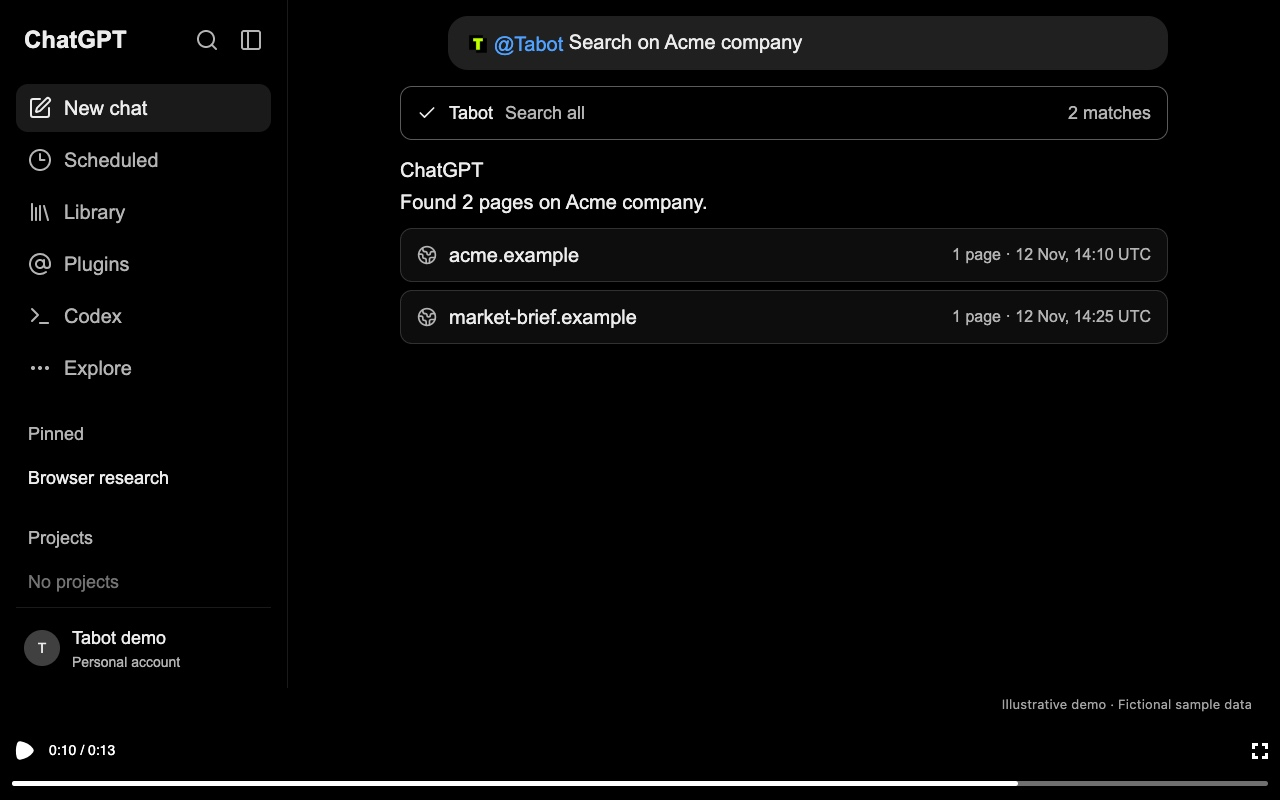
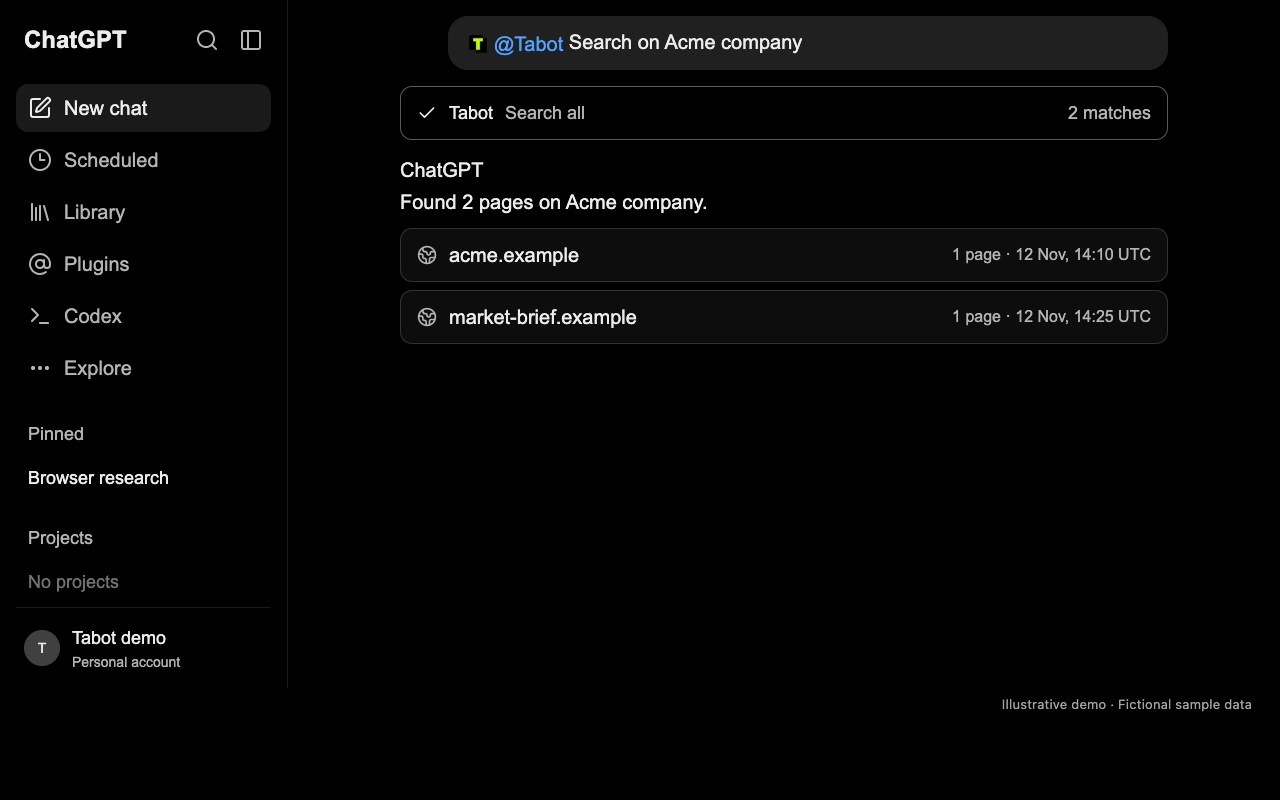
Polish extension popup and prepare 0.2.6 release

Changed region(s): [[0.0, 0.9062, 1.0, 1.0]]

diff --git a/apps/web/src/routes/mobile.tsx b/apps/web/src/routes/mobile.tsx
@@ -1,24 +1,13 @@
 import { createFileRoute } from "@tanstack/react-router";
-import { Copy } from "lucide-react";
-import { DingToaster, toast } from "~/components/alerts/ding-toaster";
 import { MobileGateFigure } from "~/components/features/mobile/mobile-gate-figure";
 import { Button } from "~/components/ui/button";
-import { LOGO_URL } from "~/lib/constants";
+import {
+	CHROME_LOGO_URL,
+	CHROME_WEB_STORE_URL,
+	LOGO_URL,
+} from "~/lib/constants";
 
 const MobilePage = () => {
-	const copyPageLink = async () => {
-		try {
-			await navigator.clipboard.writeText(window.location.href);
-			toast.success("Link copied", {
-				description: "Open this page in Chrome on your computer.",
-			});
-		} catch {
-			toast.error("Couldn’t copy link", {
-				description: "Copy the page URL from your browser’s address bar.",
-			});
-		}
-	};
-
 	return (
 		<main className="min-h-svh bg-work-canvas px-5 text-work-ink sm:px-8">
 			<header className="mx-auto flex w-full max-w-5xl items-center gap-2 py-5 sm:py-6">
@@ -47,20 +36,28 @@ const MobilePage = () => {
 					<div className="mt-6 rounded-xl border border-work-line bg-work-surface p-4 sm:p-5">
 						<p className="text-sm font-semibold">Continue on your computer</p>
 						<p className="mt-1 text-sm leading-6 text-work-muted">
-							Copy this page’s link, then open it in Chrome on your laptop or
-							desktop.
+							Open the Chrome Web Store to add Tabot to Chrome on your computer.
 						</p>
 						<Button
 							className="mt-4 w-full sm:w-fit"
-							onClick={() => void copyPageLink()}
+							disabled={!CHROME_WEB_STORE_URL}
+							onClick={() =>
+								CHROME_WEB_STORE_URL &&
+								window.open(
+									CHROME_WEB_STORE_URL,
+									"_blank",
+									"noopener,noreferrer",
+								)
+							}
 						>
-							<Copy aria-hidden="true" className="size-4" />
-							Copy page link
+							<img src={CHROME_LOGO_URL} width="22" height="22" alt="" />
+							{CHROME_WEB_STORE_URL
+								? "Add to Chrome"
+								: "Chrome Store link unavailable"}
 						</Button>
 					</div>
 				</div>
 			</section>
-			<DingToaster position="top-center" theme="light" />
 		</main>
 	);
 };

diff --git a/apps/web/src/components/features/landing/install/install-link.tsx b/apps/web/src/components/features/landing/install/install-link.tsx
@@ -1,5 +1,4 @@
 import { useNavigate } from "@tanstack/react-router";
-import { Copy } from "lucide-react";
 import {
 	AnimatePresence,
 	domAnimation,
@@ -7,7 +6,6 @@ import {
 	m,
 	useReducedMotion,
 } from "motion/react";
-import { toast } from "~/components/alerts/ding-toaster";
 import {
 	CHROME_LOGO_URL,
 	CHROME_WEB_STORE_URL,
@@ -22,20 +20,6 @@ const installClass =
 const handleAddToChromeClick = () =>
 	trackLandingAction({ name: "landing_add_to_chrome_clicked" });
 
-const handleCopyStoreLink = async () => {
-	if (!storeUrl) return;
-	try {
-		await navigator.clipboard.writeText(storeUrl);
-		toast.success("Chrome Web Store link copied", {
-			description: "Send it to your computer, then open it in Chrome.",
-		});
-	} catch {
-		toast.error("Couldn’t copy link", {
-			description: "Open this page on your computer and use Add to Chrome.",
-		});
-	}
-};
-
 type InstallLinkProps = { connected: boolean; mobile: boolean };
 
 export const InstallLink = ({ connected, mobile }: InstallLinkProps) => {
@@ -47,10 +31,6 @@ export const InstallLink = ({ connected, mobile }: InstallLinkProps) => {
 			return;
 		}
 		handleAddToChromeClick();
-		if (mobile) {
-			void handleCopyStoreLink();
-			return;
-		}
 		if (storeUrl) window.open(storeUrl, "_blank", "noopener,noreferrer");
 	};
 
@@ -66,7 +46,7 @@ export const InstallLink = ({ connected, mobile }: InstallLinkProps) => {
 			type="button"
 			aria-label={
 				mobile
-					? "Copy store link"
+					? "Add to Chrome"
 					: connected
 						? "Continue in Tabot"
 						: "Add to Chrome"
@@ -89,8 +69,8 @@ export const InstallLink = ({ connected, mobile }: InstallLinkProps) => {
 					>
 						{mobile ? (
 							<>
-								<Copy aria-hidden="true" className="size-4" />
-								<span>Copy store link</span>
+								<img src={CHROME_LOGO_URL} width="22" height="22" alt="" />
+								<span>Add to Chrome</span>
 							</>
 						) : connected ? (
 							<>

diff --git a/packages/shared/src/checks/telemetry.check.ts b/packages/shared/src/checks/telemetry.check.ts
@@ -119,6 +119,55 @@ assert.doesNotMatch(
 	JSON.stringify(actionPayload),
 	/private\.example|secret|account-reset|Alice|user@example\.com/,
 );
+const errorWithoutStack = new TypeError("sensitive-error-message");
+errorWithoutStack.stack = "";
+telemetry.captureError(errorWithoutStack, "window_error", false, {
+	filename: "https://private.example/assets/chunk.js?token=secret",
+	lineno: 12,
+	colno: 8,
+});
+const fallbackEvent = events.at(-1);
+assert.equal(fallbackEvent?.type, "exception");
+if (fallbackEvent?.type !== "exception")
+	throw new Error("window error fallback trace missing");
+assert.deepEqual(fallbackEvent.exception.frames, [
+	{ filename: "chunk.js", lineno: 12, colno: 8, platform: "web:javascript" },
+]);
+assert.doesNotMatch(
+	JSON.stringify(fallbackEvent),
+	/private\.example|secret|sensitive-error-message/,
+);
+let fallbackPayload: Record<string, unknown> | undefined;
+globalThis.fetch = async (_input, init) => {
+	fallbackPayload = JSON.parse(String(init?.body)) as Record<string, unknown>;
+	return new Response(null, { status: 200 });
+};
+try {
+	await createPostHogTransport({
+		projectKey: "test-key",
+		distinctId: "tabot_web",
+	}).capture(fallbackEvent);
+} finally {
+	globalThis.fetch = originalFetch;
+}
+const fallbackProperties = fallbackPayload?.properties as Record<
+	string,
+	unknown
+>;
+const exceptionList = fallbackProperties?.$exception_list as Array<{
+	stacktrace?: { frames?: Array<Record<string, unknown>> };
+}>;
+assert.deepEqual(exceptionList[0]?.stacktrace?.frames?.[0], {
+	filename: "chunk.js",
+	lineno: 12,
+	colno: 8,
+	platform: "web:javascript",
+	function: "<redacted>",
+});
+assert.doesNotMatch(
+	JSON.stringify(fallbackPayload),
+	/private\.example|secret|sensitive-error-message/,
+);
 console.log(
 	"telemetry: provider-neutral API, bounded routes, and sanitized PostHog exception payload passed",
 );

diff --git a/packages/shared/src/telemetry.ts b/packages/shared/src/telemetry.ts
@@ -125,7 +125,10 @@ const SAFE_FAILURE_CODES: ReadonlySet<string> = new Set([
 	"embedding-busy",
 ]);
 
-const safeException = (value: unknown) => {
+const safeException = (
+	value: unknown,
+	fallbackFrame?: Pick<SafeExceptionFrame, "filename" | "lineno" | "colno">,
+) => {
 	let name = "Error";
 	let stack: string | undefined;
 	try {
@@ -136,7 +139,15 @@ const safeException = (value: unknown) => {
 	} catch {
 		// Malformed thrown values are reduced to generic diagnostics.
 	}
-	return { name, message: "redacted", frames: safeFrames(stack) };
+	const frames = safeFrames(stack);
+	if (!frames.length && fallbackFrame) {
+		frames.push(
+			...safeFrames(
+				`Error\n    at ${fallbackFrame.filename}:${fallbackFrame.lineno}:${fallbackFrame.colno}`,
+			),
+		);
+	}
+	return { name, message: "redacted", frames };
 };
 
 export const createTelemetry = (
@@ -174,6 +185,7 @@ export const createTelemetry = (
 			value: unknown,
 			source: TelemetryErrorSource,
 			handled = false,
+			fallbackFrame?: Pick<SafeExceptionFrame, "filename" | "lineno" | "colno">,
 		) => {
 			const failureCode = safeFailureCode(value);
 			send({
@@ -181,7 +193,7 @@ export const createTelemetry = (
 				source: SAFE_SOURCES.has(source) ? source : "unknown",
 				handled,
 				...(failureCode ? { failureCode } : {}),
-				exception: safeException(value),
+				exception: safeException(value, fallbackFrame),
 				context,
 			});
 		},

diff --git a/apps/extension/popup.tsx b/apps/extension/popup.tsx
@@ -286,7 +286,16 @@ export default function Popup() {
 						className="mt-0.5 size-6.5 shrink-0 object-contain"
 					/>
 					<div className="min-w-0">
-						<p className="text-sm font-semibold leading-5">Tabot</p>
+						<a
+							href="https://shanvit7.github.io/tabot/home"
+							target="_blank"
+							rel="noreferrer"
+							aria-label="Open Tabot dashboard (new tab)"
+							title="Open Tabot dashboard"
+							className="-mx-1 -my-0.5 inline-flex min-h-6 items-center rounded-sm px-1 text-sm font-semibold leading-5 underline decoration-transparent underline-offset-4 hover:decoration-muted focus-visible:decoration-muted"
+						>
+							Tabot
+						</a>
 						<div className="mt-0.5 flex items-center gap-1.5 text-xs text-muted">
 							<span
 								role="status"

diff --git a/apps/web/src/components/features/landing/sections/faq-section.tsx b/apps/web/src/components/features/landing/sections/faq-section.tsx
@@ -35,6 +35,10 @@ const faqs = [
 		"No—we don’t train AI on your browsing data. Tabot is free and open source, so you can use it without paying for another AI service or handing your browsing history to a cloud platform. We’d rather keep the core experience free and let the community shape where it goes next.",
 	],
 	[
+		"Does my computer need to be on to use Tabot with ChatGPT?",
+		"Yes. Keep your computer on, Chrome open, and the Tabot extension connected while ChatGPT accesses your browsing data. If your computer is off or the extension is disconnected, ChatGPT can't access it through Tabot.",
+	],
+	[
 		"Can Tabot take actions for me?",
 		<>
 			Not yet. We’re working toward automations you can create locally and

diff --git a/apps/web/src/routes/__root.tsx b/apps/web/src/routes/__root.tsx
@@ -40,7 +40,11 @@ const RootLayout = () => {
 	}, [isLoading, isMobile, navigate, pathname]);
 	useEffect(() => {
 		const onError = (event: ErrorEvent) =>
-			trackDashboardError(event.error, "window_error");
+			trackDashboardError(event.error, "window_error", false, {
+				filename: event.filename,
+				lineno: event.lineno,
+				colno: event.colno,
+			});
 		const onUnhandledRejection = (event: PromiseRejectionEvent) =>
 			trackDashboardError(event.reason, "unhandled_rejection");
 		window.addEventListener("error", onError);

diff --git a/apps/web/src/components/ui/motion/text/text-animator-runtime.ts b/apps/web/src/components/ui/motion/text/text-animator-runtime.ts
@@ -259,7 +259,10 @@ export function cleanupLoop(c: LoopController) {
 
 function registerAnimation(c: LoopController, a: Animation): Animation {
 	c.animations.add(a);
-	void a.finished.finally(() => c.animations.delete(a));
+	void a.finished.then(
+		() => c.animations.delete(a),
+		() => c.animations.delete(a),
+	);
 	return a;
 }
 

diff --git a/apps/web/src/lib/telemetry.ts b/apps/web/src/lib/telemetry.ts
@@ -44,4 +44,5 @@ export const trackDashboardError = (
 	value: unknown,
 	source: TelemetryErrorSource,
 	handled = false,
-) => telemetry.captureError(value, source, handled);
+	fallbackFrame?: { filename: string; lineno: number; colno: number },
+) => telemetry.captureError(value, source, handled, fallbackFrame);

diff --git a/apps/web/src/components/features/assistant/panels/demo-panel.tsx b/apps/web/src/components/features/assistant/panels/demo-panel.tsx
@@ -25,6 +25,7 @@ export const AssistantDemoPanel = ({
 			alwaysShowControls
 			showPlaybackRateControl={[0.5, 1, 1.5, 2]}
 			showVolumeControls={false}
+			acknowledgeRemotionLicense
 			spaceKeyToPlayOrPause
 			moveToBeginningWhenEnded={false}
 			className="absolute! inset-0! h-full! w-full!"

diff --git a/apps/web/src/components/features/landing/demo/chatgpt-search-player.tsx b/apps/web/src/components/features/landing/demo/chatgpt-search-player.tsx
@@ -22,6 +22,8 @@ const ChatGptSearchDemo = () => {
 					durationInFrames={SEARCH_DEMO_DURATION}
 					fps={LANDING_DEMO_FPS}
 					autoPlay={!reduceMotion}
+					initiallyMuted
+					acknowledgeRemotionLicense
 					controls
 					alwaysShowControls
 					showVolumeControls={false}

diff --git a/apps/web/src/components/features/landing/demo/tabot-search-player.tsx b/apps/web/src/components/features/landing/demo/tabot-search-player.tsx
@@ -18,6 +18,8 @@ const TabotSearchDemo = () => {
 					durationInFrames={SEARCH_DEMO_DURATION}
 					fps={LANDING_DEMO_FPS}
 					autoPlay={!reduceMotion}
+					initiallyMuted
+					acknowledgeRemotionLicense
 					controls
 					alwaysShowControls
 					showVolumeControls={false}
